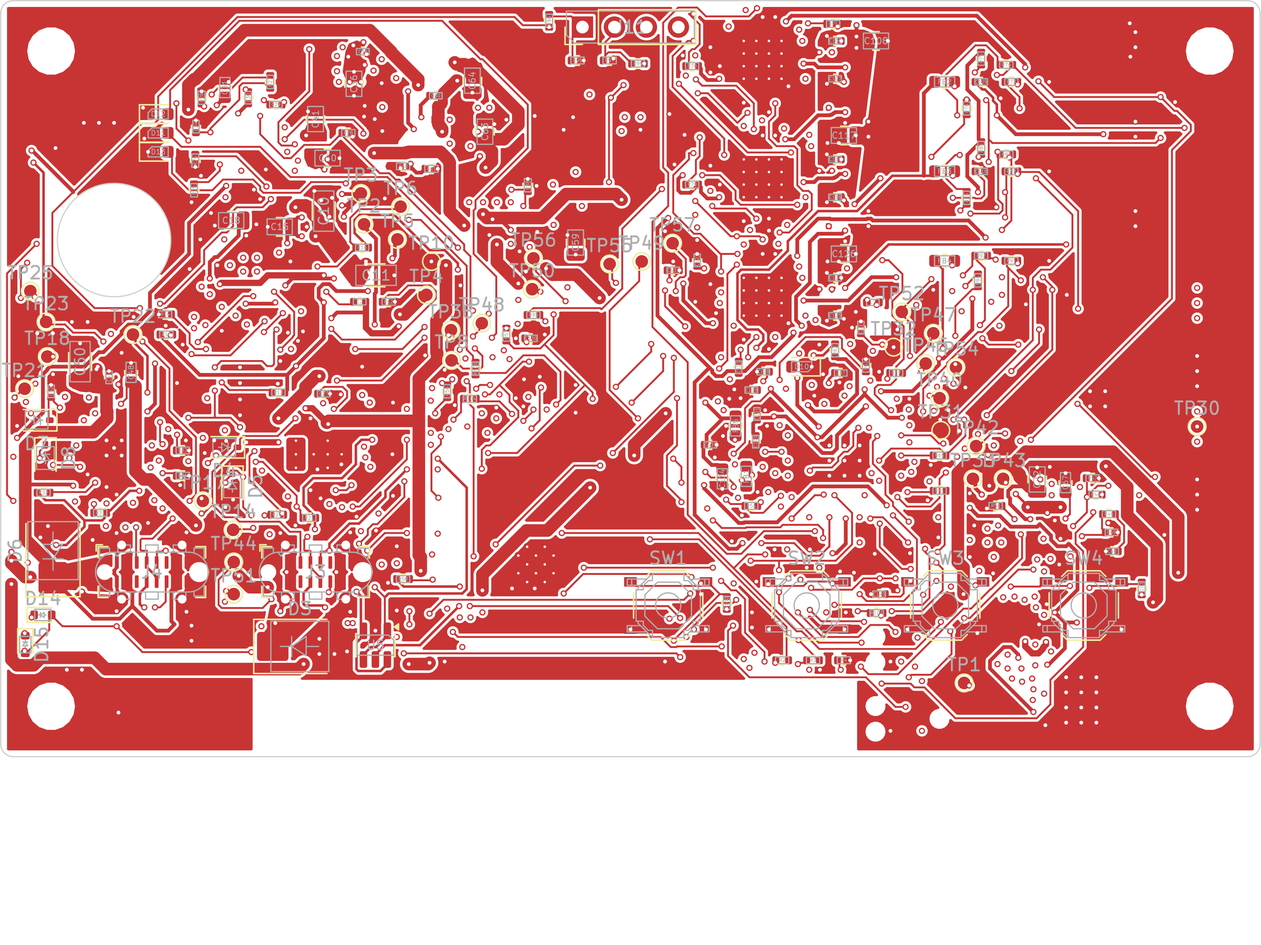
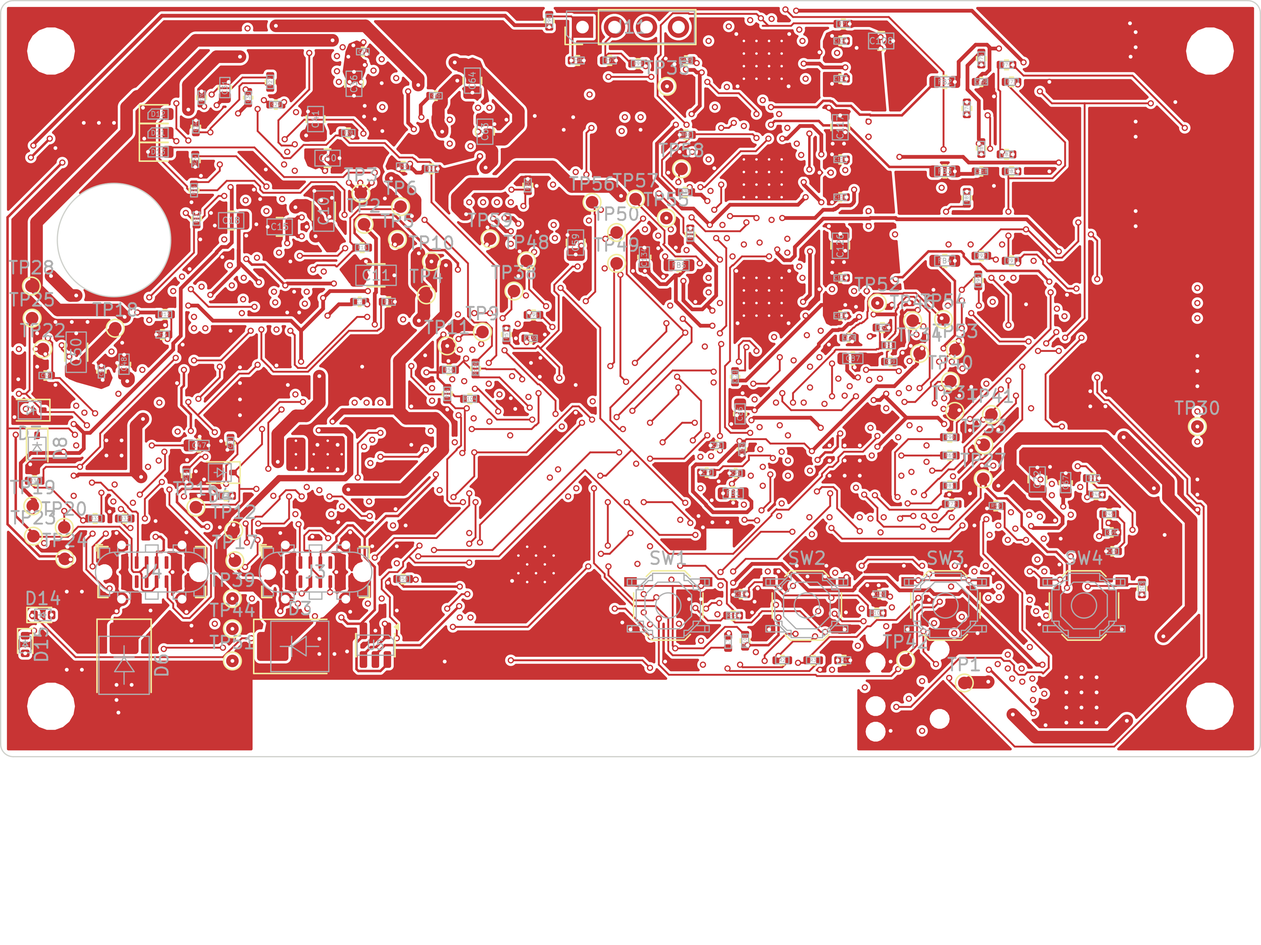
Phase 4: documents, progress file and workflow brought to the state of 23 November, 14:30 UTC
docs/04-electronics.md: battery board section written (circuit, checks, what is not confirmed), mainboard section
says plainly that 2 connections are open and that 11 of 17 power paths are too thin, with the plan to rebuild the
power section as drawn copper areas. Decisions log: Q38 to Q41 added as pending. Workflow: battery board and the
power-path width check added (not run on GitHub yet).

Claude-Session: https://claude.ai/code/session_011Eu8XGfbMCPRUGrwCaUfZN

Changed region(s): [[0.0, 0.0, 0.9651, 0.8052], [0.9962, 0.0, 1.0, 0.8052], [0.0623, 0.0619, 0.0934, 0.0929]]

diff --git a/hardware/electronics/tools/pathwidth.py b/hardware/electronics/tools/pathwidth.py
@@ -5,8 +5,8 @@ A connection can pass the design-rule check and still be a hair-thin track; this
 of the laid-out board as JSON (tools/dumpcu.py, run with KiCad's Python) and the list of terminals in the board's
 design.py (POWER_PATHS: net -> (list of "REF.pin", width wanted in mm)).
 
-usage:  python3 dumpcu.py <board>.kicad_pcb out/<name>.copper.json NET ...      (inside KiCad's Python)
-        python3 pathwidth.py <board-folder>                                      (numpy, scipy, matplotlib)
+usage:  python3 dumpcu.py <board-folder>        (with KiCad's Python: writes <board>/out/<name>.copper.json)
+        python3 pathwidth.py <board-folder>     (numpy, scipy, matplotlib)
 Writes <board>/out/<name>-pathwidth.json and prints one line per net.
 """
 import importlib.util
@@ -21,6 +21,7 @@ from scipy import ndimage
 
 G = 0.025                                  # raster pitch, mm
 STEPS = [1.0, 0.8, 0.6, 0.5, 0.4, 0.35, 0.3, 0.25, 0.2, 0.15, 0.1]      # widths tried, widest first
+NECK = 0.8                                 # mm of narrower copper accepted at a pin that is itself narrower
 
 
 def raster(net, layers):
@@ -119,7 +120,9 @@ def joined(net, grids, geo, box, terms, width, use_vias=True):
             if p["ref"] == ref and p["num"] == num:
                 for l in p["layers"]:
                     if l in labels:
-                        e = n * G + 0.03                   # a narrow pin is reached when the wide copper comes up to it
+                        # a pin narrower than the width asked for is reached when the wide copper comes to within
+                        # NECK of it: the short neck at a fine-pitch pin is the pin's own width and cannot be wider
+                        e = n * G + 0.03 + (NECK if min(p["r"][2] - p["r"][0], p["r"][3] - p["r"][1]) < width else 0.0)
                         i0, i1, j0, j1 = box(l, (p["r"][0] - e, p["r"][1] - e, p["r"][2] + e, p["r"][3] + e))
                         got |= {find(a) for a in set(np.unique(labels[l][j0:j1 + 1, i0:i1 + 1])) - {0}}
         if not got:
@@ -159,4 +162,4 @@ def main(folder):
 
 
 if __name__ == "__main__":
-    main(os.path.abspath(sys.argv[1]))
+    sys.exit(0 if all(r["ok"] for r in main(os.path.abspath(sys.argv[1]))) else 1)

diff --git a/hardware/electronics/tools/dumpcu.py b/hardware/electronics/tools/dumpcu.py
@@ -1,8 +1,22 @@
-"""Dump the copper of chosen nets of a board (zone fills, tracks, vias, pads) per layer as JSON. Run inside KiCad's Python.
-usage: python3 dumpcu.py <board.kicad_pcb> <out.json> NET [NET ...]"""
-import json, sys, pcbnew
-b = pcbnew.LoadBoard(sys.argv[1])
-want = set(sys.argv[3:])
+"""Dump the copper of a board's power nets (zone fills, tracks, vias, pads) per layer as JSON, for tools/pathwidth.py.
+Run with KiCad's Python.   usage: python3 dumpcu.py <board-folder>
+The nets are the keys of POWER_PATHS in the board's design.py; the result is <board>/out/<name>.copper.json."""
+import importlib.util
+import json
+import os
+import sys
+
+import pcbnew
+
+folder = os.path.abspath(sys.argv[1])
+name = [f[:-10] for f in os.listdir(folder) if f.endswith(".kicad_pcb")][0]
+spec = importlib.util.spec_from_file_location("design", os.path.join(folder, "design.py"))
+mod = importlib.util.module_from_spec(spec)
+spec.loader.exec_module(mod)
+want = set(mod.POWER_PATHS)
+b = pcbnew.LoadBoard(os.path.join(folder, name + ".kicad_pcb"))
+
+
 def xy(p): return [round(p.x / 1e6 - 100, 4), round(100 - p.y / 1e6, 4)]
 def chain(c): return [xy(c.CPoint(i)) for i in range(c.PointCount())]
 out = {n: dict(zones=[], tracks=[], vias=[], pads=[]) for n in want}
@@ -30,5 +44,6 @@ for fp in b.GetFootprints():
         layers = [l for l in ("F", "In1", "In2", "In3", "In4", "B") if p.IsOnLayer(b.GetLayerID(l + ".Cu"))]
         out[n]["pads"].append(dict(ref=fp.GetReference(), num=p.GetNumber(), layers=layers, r=[min(a[0], c[0]), min(a[1], c[1]), max(a[0], c[0]), max(a[1], c[1])],
                                    drill=pcbnew.ToMM(p.GetDrillSize().x)))
-json.dump(out, open(sys.argv[2], "w"))
-print("dumped", {n: (len(v["zones"]), len(v["tracks"]), len(v["vias"]), len(v["pads"])) for n, v in out.items()})
+os.makedirs(os.path.join(folder, "out"), exist_ok=True)
+json.dump(out, open(os.path.join(folder, "out", name + ".copper.json"), "w"))
+print(name, "copper of", len(out), "power nets written")

diff --git a/docs/04-electronics.md b/docs/04-electronics.md
@@ -11,18 +11,18 @@ This document covers the electronics of the head: the calculations behind every 
 | Calculations | Done | `docs/calc/phase4_calcs.py`, `phase4_calcs.md` |
 | ST-520 cartridge board: schematic, layout, fab files | Done. ERC and DRC clean, fits the Phase 3 carrier | `hardware/electronics/cartridge-board/`, `fab/st-520/` |
 | ST-501 mainboard: schematic | Done. 391 parts, 229 nets, ERC clean, netlist cross-checked | `hardware/electronics/mainboard/` |
-| ST-501 mainboard: layout | **Not finished, close.** Now a six-layer board with filled and capped vias (D51). KiCad's check on 23 November: 18 of about 950 connections open in 17 nets, no clearance errors, no shorts. The 18 are listed for finishing by hand (section 5.2). No fabrication files until they are closed | section 5.2 |
-| ST-602 battery board | **Not started** beyond the circuit definition. Both missing inputs are now read: the LED wiring and the fuse's pad drawing and terminal numbers; the fuse is the 2-cell ITV4030L0815 (section 5.3) | section 5.3 |
-| Fit check | Done for ST-520. **To be rerun for ST-501**: its parts moved in this revision | section 6 |
+| ST-501 mainboard: layout | **Not finished.** Six layers, filled and capped vias (D51). KiCad's check on 23 November, evening: 2 of about 950 connections open (both at the port B controller), no clearance errors, no shorts. **A new check of the copper width on the power paths fails on 11 of 17 paths** (0.10–0.50 mm found where 0.5–1.0 mm is wanted): the power stages have to be laid out again as wide copper before the board can be ordered. No fabrication files | section 5.2 |
+| ST-602 battery board | **Designed and routed; checks clean; fabrication files made.** 62 parts, 48 of them fitted by JLCPCB. ERC and DRC clean (no errors, no warnings), every pack-current path at least 1.0 mm wide. Still open: the fuse has no LCSC number and is bought separately; three pack parts need small changes that wait for approval (Q38–Q40); the parts list lines ST-602 to ST-604 are not updated | section 5.3, `hardware/electronics/battery-board/`, `fab/st-602/` |
+| Fit check | Done for ST-520 and ST-602. ST-602 clears the cell holder by 0.6 mm and the shells by 2.6 mm; its LEDs and button overlap the inner end of the light pipe ST-611 by 4.3 mm³ (Q39). **To be rerun for ST-501** when its layout is final | section 6 |
 | Wiring harnesses | Done: 6 drawings, pin tables, purchase list | `hardware/electronics/harness/` |
-| Per-board BOMs | Done for ST-520 and ST-501 (93 lines, 321 parts) | each board folder |
-| Master parts list, cost model | CSV and `bom_data.py` updated and cost model rerun; **the Sheet is not updated yet** | section 9 |
+| Per-board BOMs | Done for ST-520, ST-501 (93 lines, 321 parts) and ST-602 (19 lines, 48 parts) | each board folder |
+| Master parts list, cost model | CSV and `bom_data.py` carry the Phase 4 state of 22 November; **the lines ST-602 to ST-604 (battery board, with the corrected fuse) and the Sheet are not updated yet** | section 9 |
 | Firmware hand-off, bring-up plan | Done | sections 10 and 11 |
-| Board viewer | Done for ST-520; **ST-501 still shows the old placement** | artifact + `hardware/electronics/doc/board-viewer.html` |
-| GitHub Actions workflow | Changed for the new router (no autorouting on GitHub; the committed routes are laid on the board); started by hand only; not yet run on GitHub (it needs pull request 7 merged first) | `.github/workflows/phase4-electronics.yml` |
+| Board viewer | Done for ST-520; **ST-501 still shows the old placement and ST-602 is not in it** | artifact + `hardware/electronics/doc/board-viewer.html` |
+| GitHub Actions workflow | Now also builds the battery board and runs the power-path width check (the run fails while the mainboard's paths are thin); started by hand only; **not yet run on GitHub** (it needs pull request 7 merged first) | `.github/workflows/phase4-electronics.yml` |
 | Phase 5 prompt | Held back until the mainboard is routed and the battery board exists | — |
 
-**What you can do today:** answer the six open questions (Q28, Q31–Q35), and order the cartridge board (ST-520) if you want boards in hand early — its encoder chip was out of stock on the check date. **What is not ready:** the mainboard cannot be ordered yet (18 connections are still open), the battery board is not designed, and the Sheet, the Docs version of this document, the board viewer and the mainboard fit check still show an earlier state. Phase 4 is therefore not complete, and the Phase 5 prompt is held back. `hardware/electronics/PROGRESS.md` says exactly where to pick up.
+**What you can do today:** answer the six open questions (Q28, Q31–Q35), and order the cartridge board (ST-520) if you want boards in hand early — its encoder chip was out of stock on the check date. **What is not ready:** the mainboard cannot be ordered: 2 connections are still open and, more important, most of its power connections are far too thin (section 5.2). The battery board is finished as a board but waits for three small changes to pack parts (Q38–Q40). The Sheet, the Docs version of this document, the board viewer and the mainboard fit check still show an earlier state. Phase 4 is therefore not complete, and the Phase 5 prompt is held back. `hardware/electronics/PROGRESS.md` says exactly where to pick up.
 
 Board viewer (interactive BOM, Day / Night): <https://claude.ai/artifact/TntQCR18hPMWE3V6fTQ68L> · Docs version of this document: <https://claude.ai/artifact/9Y2pyZBkJu5i3eWqNy6xAx> · Parts list Sheet: <https://claude.ai/artifact/9T9Gpvm2vWPRYqJtPChJa8> · KiCad projects: `hardware/electronics/`.
 
@@ -181,36 +181,72 @@ A closing pass (`tools/closer.py`), which takes everything on the board as fixed
 - **A fault that caused every earlier clearance error was found**: where a track changed layer, its end on the new layer was not checked for room. Corrected; the board has had no clearance error since.
 - **Closing pass** (`tools/closer.py`): removes loose track pieces, joins what is apart on free cells, and then lets a connection take up to eight slow signals up if all of them close again.
 
-*Where it stands (KiCad DRC, all severities, 23 November).* 5,640 track segments (1,902 front, 3,057 inner face, 392 and 289 on the two inner signal layers) and 1,177 vias. **Open: 18 connections in 17 nets, out of about 950. Errors: none.** Warnings: four pairs of vias of the same net 0.4995 mm apart hole to hole (allowed for one net), two narrow copper necks in pours, the silkscreen overlaps of the status LEDs.
+*Later on 23 November (fifth chat).* Bruno does not use KiCad, so the remaining connections are closed by router work and by guided fixes in the routes file, not by hand in KiCad. What was found and changed:
 
-| Net | Open | Net | Open | Net | Open |
-|---|---|---|---|---|---|
-| `+3V3` (plug J5) | 1 | `NTC_ALT_A` | 2 | `PDB_SDAC` | 1 |
-| `ALT_VREF` | 1 | `PDA_ADC2` | 1 | `STEP_ALT` | 1 |
-| `A_CC2` | 1 | `PDA_LDO3V3` | 1 | `STEP_ROLL` | 1 |
-| `B_DP` | 1 | `PDA_SDAC` | 1 | `VMOT_MON` | 1 |
-| `CHG_TS` | 1 | `PDB_LD1` | 1 | `VPB` | 1 |
-| `LED_RP_A` | 1 | `LINK_SYNC` | 1 | | |
+- **The battery rail on inner layer 3 was cut in two** by a row of other nets' vias under the RP2354A; KiCad's check showed it as one open connection. The router now keeps the middle 2.4 mm of the rail free of other nets' vias (`spine` in `route_plan()`), which leaves at least 1.5 mm of unbroken copper along its whole length. After the new run the rail is one piece again.
+- **Two driver pins had no way out** (STEP of the altitude and roll drivers): the escape tracks of the driver above ran on into the pins of the driver below. A chip's escape ring now ends half-way to a facing chip; all 110 pins get out.
+- **The ground pin of the RP2354A's regulator** (pin 47, at the end of its row) now reaches the centre pad by a 45° leg; small parts were moved a little to widen the free bands round the processor, the PD controllers and the drivers; slow-signal resistors and capacitors get a via in their pad before the critical nets are routed.
+- **Boost converter:** the switch pins were not joined to the coil at all. They are now joined directly (0.35 mm at the pin, 1.0 mm from there, with the filled area round it).
+- Guided fixes closed the azimuth step line, a button's second ground pad, the antenna socket's ground pads, a 3.3 V test point and the charger's status pin. Two vias drilled almost on top of each other were removed.
 
-Every one of them is listed with both ends and their positions in [`hardware/electronics/mainboard/doc/st-501-open-connections.md`](../hardware/electronics/mainboard/doc/st-501-open-connections.md) (also as CSV), with click-by-click steps for KiCad. The router leaves these because each would have to cross five to fifteen finished signals near the RP2354A or a PD controller; by hand, with the freedom to move a neighbouring track aside, they are ordinary connections.
+*Where it stands (KiCad DRC, all severities, 23 November, evening).* **Open: 2 connections in 2 nets, out of about 950: `B_DP` and `B_CC2`, both at the port B controller U6. Errors: none.** Warnings: two narrow copper necks in the system-rail area on the power layer, nine vias and two track ends that KiCad calls loose, the silkscreen overlaps of the status LEDs. The two open connections sit in a 1.1 mm gap between U6 and the switch transistor Q2 where three signals need a via and only two fit; Q2 has to move about 1 mm, which is part of the work below. The list with both ends is in [`hardware/electronics/mainboard/doc/st-501-open-connections.md`](../hardware/electronics/mainboard/doc/st-501-open-connections.md).
 
-*What is left on this board.* Close the 18 connections (by hand in KiCad, or by more work on the router), look at the 3D render, then the fabrication files, the fit check and the viewer. When ordering, **Via Covering** must be set to *Epoxy Filled & Capped* (free on six layers), because vias sit in pads. The USB pairs are full-speed only (12 Mbit/s) and are routed as two tracks side by side, not as an impedance-controlled pair. The GNSS feed is 0.2 mm wide on the inner face over the ground plane, a few millimetres long; its width should be set from JLCPCB's impedance calculator for the six-layer stack before release.
+**The larger problem: the power connections are too thin.** A connection can pass KiCad's check and still be a hair-thin track. A new check (`tools/pathwidth.py`) measures, for every power net, the narrowest place on the widest way between the pins that carry the current, over tracks and filled areas together, allowing a neck of 0.8 mm at a fine-pitch pin. Result for the mainboard:
+
+| Net | What it carries | Wanted, mm | Found, mm |
+|---|---|---|---|
+| `CHG_SW1`, `CHG_SW2` | charger coil current, up to 5 A | 1.0 | **0.10**, **0.25** |
+| `CHG_PMID` | charger input capacitors | 1.0 | 0.80 |
+| `VBUS_CHG` | port A to the charger, 3 A | 1.0 | **0.25** |
+| `VBUS_A`, `VBUS_B` | the two USB-C sockets, 3 A | 1.0 | **0.25**, **0.25** |
+| `PB_SW2` | port B converter coil | 1.0 | **0.35** |
+| `VPB_RAW`, `VPB` | port B converter output, 3 A | 1.0 | 0.50, **0.25** |
+| `VM_IN` | boost converter input, up to 6 A | 1.0 | **0.25** |
+| `+5V` | 5 V rail to the PD controllers | 0.5 | 0.25 |
+| `SW_3V3` | 3.3 V converter coil | 0.5 | 0.30 |
+| `VBAT_IN`, `PB_SW1`, `PB_MID`, `BST_SW`, `SW_5V` | | 0.35–1.0 | as wanted |
+
+The cause is in the method, not in single tracks. The router lays one track per connection and falls back to a thinner one, down to 0.15 mm, when a wide one does not fit; the copper areas round each group of pads, which were meant to carry the current, are cut into pieces by other tracks. Some parts also stand too far from their chip: the port B current-sense resistor R23 is 35 mm from the converter U7, the far end of the charger coil 9 mm from its pin.
+
+*What is left on this board.* The battery board (section 5.3) was built the other way round, and that worked at the first attempt: the power parts are placed by hand, each power net is a drawn copper area that no other net may enter, and only the signals are left to the router. The mainboard's five power stages (charger, port B converter and switch, boost converter, 5 V and 3.3 V converters, the two USB-C supply paths) get the same treatment: about 25 drawn areas and 30 hand-placed parts, then one router run for the signals, the closing pass, and both checks. After that: 3D render, fabrication files, fit check, viewer. When ordering, **Via Covering** must be set to *Epoxy Filled & Capped* (free on six layers), because vias sit in pads. The USB pairs are full-speed only (12 Mbit/s) and are routed as two tracks side by side, not as an impedance-controlled pair. The GNSS feed is 0.2 mm wide on the inner face over the ground plane, a few millimetres long; its width should be set from JLCPCB's impedance calculator for the six-layer stack before release. The battery rail lies on an inner layer, which is half as thick as the outer ones at JLCPCB's standard build: ordering 1 oz inner copper is asked as Q41.
 
 ![ST-501 layout in progress, inner face](img/04-st-501-layout-inner.png)
 ![ST-501 layout in progress, front face](img/04-st-501-layout-front.png)
 
 ### 5.3 ST-602 battery board
 
-**Not designed yet; planned for the second board order.** It is not needed for the P0 bench round, which runs from a bench supply.
+**Designed, routed and checked on 23 November. Fabrication files are in `hardware/electronics/fab/st-602/`.** It is not needed for the P0 bench round, which runs from a bench supply, and goes into the second board order. Before it is ordered, three pack parts need the small changes of Q38–Q40 below, and the values should be read once more against the data sheets (the list of what was read is under "checked against").
 
-Circuit as defined: BQ40Z50-R2 gauge and protector for 2 cells in series (2S2P pack), 1 mΩ sense resistor, charge and discharge N-FETs back to back, BQ294700 second-level over-voltage protector driving a three-terminal fuse, SMBus through 100 Ω and an ESD array to the blade connector, pads for B+, mid-point, B−, PACK+ and PACK−, charge-state LEDs behind the pack's light pipe with its button. Outline 32 × 40 mm, two layers.
+![ST-602, outer face](img/04-st-602-top.png)
+![ST-602 copper, outer face](img/04-st-602-layout-front.png)
 
-The two inputs that were missing:
+**The board.** 32 × 40 mm, two layers, 1.6 mm. Every part is on the outer face; the inner face is a ground plane and lies 0.6 mm from the cell holder and the nickel strips (put a sheet of polyimide tape between them). Seen from outside the pack: the cell pair on the left ends in B+ at the board, the pair on the right in B−; the middle of the pack comes from the far end on a thin wire.
 
-1. **LED wiring — found.** The three LED pins drive up to five LEDs wired between pairs of pins (charlieplexed), as on TI's evaluation module: LED 1 anode LEDCNTLA, cathode LEDCNTLB; LED 2 anode B, cathode A; LED 3 anode B, cathode C; LED 4 anode C, cathode B; LED 5 anode C, cathode A. A TI engineer confirmed this wiring on TI's E2E forum; the gauge can be set for 3, 4 or 5 LEDs, and the charge level at which each one lights is a setting in the gauge (TI's technical reference SLUUBK0), not fixed by the wiring. Still to read from the reference manual before the schematic is drawn: which three of the five positions a 3-LED display uses.
-2. **Fuse — read from the datasheet drawing on 22 November.** The part is the 2-cell **ITV4030L0815** (15 A, heater working range 5.0–9.0 V, heater 2.2–3.3 Ω, fuse 1.0–3.0 mΩ, cuts up to 50 A at 36 V), not the 4-cell ITV4030L1415 listed before, whose heater needs 10.5–19.6 V and would not blow on this pack. Terminals 1 and 3 are the two ends of the fuse (the pack current goes through them); terminal 2 is the heater, joined inside to the middle of the fuse. Body 4.0 × 3.0 × 0.9 mm: terminal 2 on one short edge, terminals 3 and 1 on the two long edges. Recommended pads: one pad 1.20 × 1.60 mm for terminal 2, two pads 2.40 × 1.55 mm for terminals 3 and 1, 0.90 mm apart, their edge 0.35 mm from the first pad; 3.95 × 4.00 mm overall. As a footprint with the origin at the body centre: pad 2 at (−1.97, 0), pad 3 at (0.18, +1.225), pad 1 at (0.18, −1.225). Its LCSC number still has to be confirmed in JLCPCB's library before it goes in a parts list.
+| | |
+|---|---|
+| High side | B+ tab → three-terminal fuse F1 (ITV4030L0815) → charge FET Q1 → discharge FET Q2 → PACK+ lead. Both FETs AON7400A, driven by the gauge through 5.1 kΩ with 10 MΩ gate-to-source |
+| Low side | B− tab → sense resistor R1, 1 mΩ → PACK− lead. The two sense lines start on the inner edges of R1's pads through net ties, as nets of their own, and run side by side to their filter (100 Ω, 100 nF) |
+| Gauge U1 | BQ40Z50-R2 for two cells: VC2 is the top of the stack, VC3 and VC4 tied to it. Supply through a BAT54 diode and 100 Ω; 2.2 µF on PBI. No pre-charge FET (the charger BQ25792 does the pre-charge). PTC input off. One 10 kΩ thermistor bead (Semitec 103AT type, which the gauge's default table fits) taped to the cells, on two solder pads |
+| Second protector U2 | BQ294700: 4.35 V on either cell for 1–2 s (100 nF on CD) |
+| Fuse drive | Q3 (AON7400A) pulls the fuse's heater to B−. Its gate is driven by U2 through 10 kΩ or by the gauge's FUSE pin directly, with 100 kΩ to B−: at least 4.2 V on the gate in both cases down to a 6 V pack. Heater 2.2–3.3 Ω: 1.8–3.8 A |
+| Bus | SMBC, SMBD and PRES through 100 Ω each and an SRV05-4 array to three wire pads; the head pulls PRES to ground through 1 kΩ |
+| Display | Button SW1 (to DISP) and four green LEDs behind the light pipe ST-611, 13 mm above the board centre: LED 1 (lowest) at the left. The LEDs are wired between pairs of the three LED pins as on TI's evaluation module; 100 Ω in each pin line keeps the current between 4 mA (6 V pack) and 16 mA (8.4 V) |
+| Solder pads | B+ and B− 5.0 × 5.5 mm for the nickel tabs (folded round the bottom edge); PACK+ and PACK− 3.2 × 4.0 mm for 18 AWG leads; four pads 1.6 × 2.6 mm for the middle tap and the three bus wires; two for the thermistor |
+| Test points | fuse gate, ground, FET mid-point |
 
-The screw-free fixing of the board at the pack end is designed together with the board and is still open.
+**Checks.** ERC: no errors. KiCad DRC, all severities: no errors, no warnings, nothing unconnected. Power paths (`tools/pathwidth.py`): B+, fuse to FET, FET to FET, PACK+, B−, PACK− all at least 1.0 mm wide (drawn copper areas 1.6–3.6 mm), heater path 1.0 mm. Fit in the pack (`stcad.fit_boards`): 0.6 mm to the cell holder, 2.6 mm to the shells; **the LEDs and the button overlap the inner end of the light pipe by 4.3 mm³**, because the Phase 3 pipe reaches the board face.
+
+**Parts.** 19 lines, 48 parts fitted by JLCPCB, all with confirmed LCSC numbers except the fuse: the 2-cell ITV4030L0815 is not in LCSC's catalogue (only the 4-cell L1415 is). It is bought from DigiKey or Mouser (`ITV4030L0815NR`) and either sent to JLCPCB as a consigned part or soldered by hand with hot air; an iron on its pads can open it.
+
+**Checked against.** Pin table, two-cell wiring, gate-drive and FUSE-pin figures, LED pin currents: BQ40Z50-R2 data sheet SLUSCS4C. Reference values (100 Ω cell and sense resistors, 5.1 kΩ and 10 MΩ gate resistors, 10 kΩ on PACK, BAT54 and 100 Ω on BAT, 2.2 µF on PBI, 1 mΩ sense resistor): the same data sheet and the bill of materials of TI's evaluation module SLUUAV7C. BQ294700 pins, threshold, delay and input values: data sheet SLUSB15. Fuse pads and terminals: Littelfuse drawing, as read on 22 November. **Not confirmed:** which LED positions the gauge lights when set to four LEDs (the reference manual SLUUBK0 could not be read; the wiring follows TI's module, positions 1 to 4); TI's own values for the fuse-drive resistors (the module's schematic is a picture; the values here are calculated from the data-sheet figures); the gate of Q4 is tied to B− as in TI's "simple" circuit, which protects only below about −2 V at PACK+ (the keyed blade connector prevents a reversed charger anyway).
+
+**Three pack parts would have to change (asked as Q38–Q40; nothing is changed yet):**
+
+1. *Fixing without screws.* The board's bottom and top edges are free of parts over the middle 7 mm, for a grooved rib on the floor of the lower shell ST-605 and one under the roof of the upper shell ST-612.
+2. *Light pipe ST-611.* It must end 2 mm before the board and needs a way to press the button.
+3. *Cell holder ST-606.* The pack leads and the thin wires have to pass the two holders to reach the blade connector at the other end; the holders are solid plates in Phase 3.
+
+**Setting up the gauge** (TI bqStudio with an EV2400 adapter, on the blade connector): two cells in series; design capacity 10,000 mAh; chemistry for the Molicel P50B; four LEDs; charge and discharge over-current limits in the gauge's firmware settings at the pack's 6 A plus a margin (suggested: 6 A and 8 A; the fast hardware short-circuit limit is 0.1 V across the sense resistor, 100 A with 1 mΩ, so the firmware limits and the fuse do this job); pre-charge through the charge FET. A 1- or 2-cell pack must first be woken by a charger on PACK+, as the data sheet says.
 
 ## 6. Fit check
 
@@ -221,11 +257,14 @@ The boards are exported from KiCad as STEP models with their components and load
 | ST-520 Encoder board (azimuth) | none | ST-212 Cartridge cover (azimuth) 0.09 mm; ST-208 Encoder tube (azimuth) 0.82 mm; ST-209 Encoder magnet (azimuth) 0.82 mm | 0.82 |
 | ST-520 Encoder board (altitude) | none | ST-212 Cartridge cover (altitude) 0.09 mm; ST-208 Encoder tube (altitude) 0.81 mm; ST-209 Encoder magnet (altitude) 0.81 mm | 0.81 |
 | ST-520 Encoder board (roll) | none | ST-216 Cartridge cover (roll) 0.09 mm; ST-215 Encoder tube (roll) 0.82 mm; ST-209 Encoder magnet (roll) 0.82 mm | 0.82 |
-| ST-501 Mainboard | ST-310 Azimuth body (0.21 mm³); ST-315 Front bezel (4.04 mm³) | ST-326 OLED window 38 x 22 x 1 PC 0.58 mm; ST-316 Button cap 4 3.5 mm; ST-316 Button cap 1 3.66 mm | — |
+| ST-501 | — | not exported yet | — |
+| ST-602 Battery board | ST-611 Pack light pipe (4.26 mm³) | ST-606 Cell holder +Y 0.6 mm; ST-605 Pack shell lower 2.58 mm; ST-610 Pack gasket 2.58 mm | — |
 
 Reading the table: the cartridge boards rest on their carriers (0.09 mm is the copper thickness missing from the bare-board model) and nothing else is nearer than the magnet. **The chip-to-magnet gap is 0.81–0.82 mm, under the MT6835's 1.0 mm minimum. By decision D48 it stays as it is and is measured on the P0 bench.**
 
 Mainboard (placement model): the only overlap is the display's 4-pin header, drawn in the 3D model as a full-length stock header 10.1 mm tall; the bezel's inner face is 6 mm from the board. On the real board the display module is soldered by its own pins, trimmed to length, so this is a model artefact — but it also shows the display must sit low: check the module's height against the 0.58 mm left under the window when the first display arrives. The button caps end 3.5–3.7 mm from the board face and the chosen switch is 1.5 mm tall, which is the 2 mm of Q31. No overlap is reported at the USB-C sockets (they stand about 1.5 mm proud of the bezel's outer face, D49) or at the buttons; whether every part carries a 3D model in the export has not been checked one by one, so this check is repeated when the layout is final. The GNSS antenna is no longer on the board (Q32), so the GNSS window check moves to the antenna's position under the top cover in the CAD, still to be drawn.
+
+Battery board ST-602: 0.6 mm from the cell holder behind it (as designed in Phase 3) and 2.6 mm from the shells. The one overlap is with the light pipe ST-611, which in the Phase 3 model reaches the board face: the LEDs and the button stand 0.8–1.5 mm proud of it (Q39).
 
 ## 7. Wiring harnesses
 
@@ -539,3 +578,5 @@ Fit the boards and harnesses following the Phase 3 assembly sequence, then repea
 - Freerouting 2.1.0 <https://github.com/freerouting/freerouting>; KiCad 9.0.8 <https://www.kicad.org/>
 - BQ40Z50 LED wiring as on TI's evaluation module, confirmed by TI on the E2E forum: <https://e2e.ti.com/support/power-management-group/power-management/f/power-management-forum/807905/bq40z50-rsoc-led-configuration>; evaluation-module guide SLUUAV7 <https://www.ti.com/lit/pdf/sluuav7>
 - Littelfuse ITV4030 product specification (body dimensions) <https://www.littelfuse.com/products/fuses-overcurrent-protection/battery-protector/itv-three-terminal-fuses/itv4030-15a>
+- BQ40Z50EVM-561 user's guide SLUUAV7C, bill of materials (read 23 November 2026): <https://www.ti.com/lit/pdf/SLUUAV7>
+- LCSC and JLCPCB product pages read on 23 November 2026 for the battery board: BQ294700DSGR C414622, BAT54WS C2991936, 10 MΩ 0402 C26086, 1 mΩ 1206 C2904209

diff --git a/hardware/electronics/PROGRESS.md b/hardware/electronics/PROGRESS.md
@@ -1,22 +1,74 @@
 # Phase 4 (electronics) — progress
 
-Last update: 23 Nov 2026, 01:30 UTC (third Phase 4 chat; this one can push). Branch `phase-4-electronics`, pull request #6 (draft). Phase 4 is **not complete**.
-The second Phase 4 chat could not push (the repo attached read-only); Bruno uploaded its files to the branch by hand on GitHub.
+Last update: 23 Nov 2026, 14:30 UTC (fifth Phase 4 chat). Branch `phase-4-electronics`, pull request #6 (draft). Phase 4 is **not complete**.
+Bruno does not use KiCad: nothing is left for him to finish by hand in it. Everything is done from `design.py`, the router and the routes files.
 
 ## Done
-- Calculations: `docs/calc/phase4_calcs.py` (+ `.md`, `.json`). D42–D49 approved and in the decisions log.
+- Calculations: `docs/calc/phase4_calcs.py` (+ `.md`, `.json`). D42–D51 approved and in the decisions log.
 - ST-520 cartridge board: schematic, layout, fab package (`fab/st-520/`), ERC and DRC clean, fits its carrier. Order-ready.
 - ST-501 mainboard schematic: 7 sheets, 391 parts, 229 nets, ERC clean, netlist cross-checked. BOM in `mainboard/st-501-bom.csv`.
-- Harness drawings, cost model, parts list CSV and `bom_data.py`, firmware hand-off, bring-up plan, workflow file.
+- **ST-602 battery board** (`battery-board/`, new on 23 Nov): schematic, layout, routes, fab package (`fab/st-602/`). ERC clean, DRC clean
+  (no errors, no warnings), power paths ≥ 1.0 mm, fit check done. Open points: see "ST-602" below.
+- Harness drawings, cost model, parts list CSV and `bom_data.py` (state of 22 Nov), firmware hand-off, bring-up plan, workflow file.
 - LCSC numbers in `tools/catalog.py` are all confirmed; blank means not confirmed. Never fill one in from memory.
 
-## ST-501 layout: where it stands (KiCad DRC, 23 Nov 01:30 UTC, `mainboard/out/st-501-drc.json`)
-- **Six layers now (D51), via-in-pad, battery rail on In3 (D50).** Stack: F sig / In1 power / In2 sig / In3 sig + VBAT bus / In4 GND / B sig.
-- 5,640 track segments, 1,177 vias. **18 connections open in 17 nets** (of about 950): +3V3 (J5.1), ALT_VREF, A_CC2, B_DP, CHG_TS,
-  LED_RP_A, LINK_SYNC, NTC_ALT_A ×2, PDA_ADC2, PDA_LDO3V3, PDA_SDAC, PDB_LD1, PDB_SDAC, STEP_ALT, STEP_ROLL, VMOT_MON, VPB.
-- **Errors: none.** Warnings: 4 same-net via pairs 0.4995 hole to hole, 2 connection_width in pours, silk overlaps at D11–D13.
-- List with positions and KiCad steps: `mainboard/doc/st-501-open-connections.md` / `.csv` (`tools/openlist.py mainboard`).
-- No fab files. Fit check, viewer, 3D render not redone.
+## ST-501 layout: where it stands (KiCad DRC, 23 Nov 14:00 UTC, `mainboard/out/st-501-drc.json`)
+- Six layers (D51), via-in-pad, battery rail on In3 (D50). Stack: F sig / In1 power / In2 sig / In3 sig + VBAT bus / In4 GND / B sig.
+- Routes = router cycle "10b" + closer + guided fixes (`mainboard/st-501.routes.json`, laid on `st-501.kicad_pcb`).
+  **2 connections open: `B_DP` (U6.22) and `B_CC2` (D8.1). Errors: none.** Warnings: 2 connection_width (VSYS area on In1), 9 via_dangling,
+  2 track_dangling, silk overlaps at D11–D13. List: `mainboard/doc/st-501-open-connections.md`.
+- **Power paths fail** (`python3 tools/pathwidth.py mainboard` after `kc "python3 tools/dumpcu.py mainboard"`): CHG_SW1 0.10, CHG_SW2 0.25,
+  CHG_PMID 0.80, VBUS_CHG 0.25, VBUS_A 0.25, PB_SW2 0.35, VPB_RAW 0.50, VPB 0.25, VBUS_B 0.25, VM_IN 0.25 (all wanted 1.0); +5V 0.25,
+  SW_3V3 0.30 (wanted 0.5). OK: VBAT_IN, PB_SW1, PB_MID, BST_SW, SW_5V. **This, not the 2 open connections, is what keeps the board from being ordered.**
+- No fab files. Fit check, viewer, 3D render not redone. `costs.py` still prices the bare mainboard as four layers.
+
+### What has to be done on ST-501 (the plan; nothing of it is started)
+Build the power section the way ST-602 was built (it worked at the first attempt there):
+1. In `mainboard/design.py` put the power parts in `FIXED` by hand, stage by stage, as in the reference layouts: charger U2 with L1 (both
+   coil pads within 3 mm of SW1/SW2), C2/C3, PMID and VBUS capacitors; port B converter U7 with Q4/Q5, L2, **R23 next to U7** (it is 35 mm away
+   now), C39–C43; port B switch Q2/Q3 **at least 2.2 mm from U6's pin row** (1.1 mm now: three signals need a via there and two fit, which is why
+   B_DP stays open); boost U12 with L5, C66 turned so its SW pad faces pin 9, C71/C72; U10/L3 and U11/L4; the VBUS paths J3–U3–U2 and Q3–J4.
+2. Add a table `AREAS` as in `battery-board/design.py` (net, face, outline, centre line, half width) for every net of `POWER_PATHS`, pass
+   them to the router as hard regions with a spine (no other net's track or via inside), make them zones in `finish()` and block them for the
+   autoplacer. Take those nets out of the "switch nodes and power stages" route step or leave only a thin tie track to the router.
+3. Parts on the other face inside an area's outline are fine; pads of other nets on the same face are not: keep the areas tight round their pads.
+4. One router run, closer, `layout.py`, then **both** checks: `check.py mainboard` and `pathwidth.py mainboard`. Then the remaining opens by
+   guided fixes (helpers of this chat: `/home/claude/work/fix.py`, `subsets.py`; they are not in the repo — the ideas are: take named slow
+   nets up, lay explicit pieces, close everything again, keep only if all close; and try subsets of up to three neighbouring slow nets).
+5. Then: 3D render, `fab.py mainboard`, `python -m stcad.fit_boards`, `viewer.py`.
+
+### Changes of the fifth chat (23 Nov), so nobody repeats or undoes them
+- `grouter.py`: region `spine` + `keep` (no foreign vias along the middle of an area: the VBAT bus was cut in two under U14 before);
+  escape ring ends half-way to a facing fine-pitch chip (U17.16 / U19.16 had no way out); end-of-row pins of the centre pad's net reach it
+  by a 45° leg; `escape(pad_vias=0.5)` reserves an in-pad via on slow-signal pads of R, C, D, J, TP, L, FB, Q; `plan["rules"]`
+  (clearance, via, drill) per board; via radius in the clearance model = max(pad, hole + clearance); hand-laid tracks and vias of
+  `design.py` (`pre["tracks"]`, `pre["vias"]`) count as connections (`net_groups_rect`).
+- `closer.py`: `laid()` (hand-laid copper in islands and prune), `one_more` with alternatives and depth, `plane_pads`, final `prune` + `tee`
+  (cuts a track where another ends on it, so KiCad sees a shared end point); prune keeps a via that joins two pads by itself (it removed
+  five such vias once and opened AZ_SCK, ALT_SCK, ROLL_SCK, SH_TIP, +3V3G: fixed). Env: `CLOSER_VICTIMS`, `CLOSER_DEPTH`, `CLOSER_ALTS`,
+  `CLOSER_ROUNDS`, `CLOSER_WHY`, `CLOSER_KEEP`.
+- `mainboard/design.py`: wider free bands (U3, U6 2.4; U14 3.2; U15, U17, U19 2.0), `VBAT_SPINE = 1.2`, `POWER_PATHS`. The block at
+  (−13.4, 7.0, −10.9, 9.7) is a leftover the placement depends on (comment in the file).
+- New tools: `tools/dumpcu.py <board>` (KiCad's Python) + `tools/pathwidth.py <board>` (numpy, scipy, matplotlib): power-path widths.
+- Outer-face ground pours break into islands; a pad in an island without a ground via is "connected" for the router but not for KiCad.
+  Found with a pcbnew script (islands of the GND zones without a via); fixed by tie tracks for SW1.2 and J10.2. Worth a step of its own.
+- KiCad does not count a via as joined to a chamfered pad when only their copper overlaps: add a short track to the pad centre (CHG_STAT at U2.1).
+
+## ST-602 battery board (23 Nov)
+- Built from `battery-board/design.py`: fixed places for all power parts and the gauge's own parts, `AREAS` (drawn copper for BP, BF, VCC,
+  PACKP, FUSE_H, GND, PACKN: hard regions with spines, zones), hand-laid pin tracks and the two sense lines (net ties NT1, NT2 on R1's pads;
+  SRP_K hops to B for 2 mm), the rest by `grouter.py` + `closer.py`. Rules: clearance 0.15, via 0.6/0.3.
+- Flow: `kc "python3 tools/layout.py battery-board --dump"` → `cd battery-board && python3 ../tools/grouter.py .` (5 s) →
+  `python3 tools/closer.py battery-board` → `kc "python3 tools/layout.py battery-board"` → `kc "python3 tools/fab.py battery-board"` →
+  `kc "python3 tools/dumpcu.py battery-board"` + `python3 tools/pathwidth.py battery-board`.
+- Confirmed part numbers added to `catalog.py`: BQ294700DSGR C414622, BAT54WS C2991936, 10 MΩ C26086, 1 mΩ 1206 C2904209. The fuse
+  ITV4030L0815NR has none (not at LCSC).
+- Not confirmed (said so in the document): LED positions lit in 4-LED mode (SLUUBK0 not read); TI's own fuse-drive resistor values.
+- Pack parts that would change (asked as Q38–Q40, not changed): grooved ribs in ST-605 / ST-612, light pipe ST-611 2 mm shorter with a
+  way to press the button, wire notches in the cell holders ST-606. `hardware/cad/stcad/fit_boards.py` has the ST-602 frame; the envelope
+  in `bought.py` still shows the LEDs at the board centre (they are 13 mm above it, at the light pipe).
+- Parts list: ST-602 / 603 / 604 lines in `hardware/bom/master-parts-list.csv`, `bom_data.py` and the Sheet are not updated
+  (the fuse line still names the 4-cell part); `costs.py` does not price ST-602 yet.
 
 ### Six-layer runs (23 Nov), in order
 1. Six layers, in-pad plane vias (`in_pad=True` on plane steps), escape after critical: 64 open.
@@ -84,30 +136,20 @@ Q36 → D50 (pack pads stay, rail on In3), Q37 → D51 (six layers, via-in-pad):
 Q28, Q31–Q35 are still pending (recommended options in use).
 
 ## Next, in this order
-1. **ST-501**: close the last 18 (Bruno by hand from the list, or router work), DRC clean, 3D render, `tools/fab.py mainboard`,
-   `python -m stcad.fit_boards` (hardware/cad), `tools/viewer.py`. If Bruno hand-finishes: take his saved `.kicad_pcb` as the board
-   (do not run `layout.py` over it), run `check.py`, then fab.
-2. **ST-602 battery board** (folder `battery-board/` does not exist yet). Inputs, all read now:
-   - LEDs: charlieplexed on LEDCNTLA/B/C as on TI's EVM: LED1 A→B, LED2 B→A, LED3 B→C, LED4 C→B, LED5 C→A (anode→cathode); 3, 4 or 5 LEDs by setting.
-     Still to read in SLUUBK0: which positions a 3-LED display uses.
-   - Fuse **ITV4030L0815** (2 cells, 15 A, VOP 5.0–9.0 V, heater 2.2–3.3 Ω, fuse 1.0–3.0 mΩ; the L1415 at C3672030 is the 4-cell part and wrong).
-     Read from the datasheet drawing (rev. 08/22/23, page 4, static.chipdip.ru/lib/556/DOC043556381.pdf): terminals 1 and 3 = fuse ends,
-     2 = heater (to the fuse mid-point). Body 4.0 × 3.0 × 0.9; terminal 2 on a short edge, 3 and 1 on the long edges.
-     Land pattern: A1 1.20, A2 1.55, A3 2.40, B1 1.20, B2 1.60, B3 1.55, B4 0.90, B5 1.55 → pad 2 1.20 × 1.60 at (−1.97, 0);
-     pad 3 2.40 × 1.55 at (0.18, +1.225); pad 1 2.40 × 1.55 at (0.18, −1.225), origin at the body centre.
-     LCSC number of the L0815: not looked up yet — confirm in JLCPCB's library or leave blank.
-   - Screw-free fixing at the pack end: not designed.
+1. **ST-501 power section** as planned above, then its 2 open connections, both checks clean, 3D render, fab, fit check, viewer.
+2. **ST-602**: apply Bruno's answers to Q38–Q40 in `hardware/cad` (printed parts; ask first if anything else must change), update the
+   envelope in `bought.py`, rerun `stcad.fit_boards`; price it in `costs.py`; correct the ST-602 / 603 / 604 lines.
 3. **Sheet** https://claude.ai/artifact/9T9Gpvm2vWPRYqJtPChJa8: copy the changed lines from `hardware/bom/master-parts-list.csv`
-   (ST-501, 509, 512, 513, 517, 518, 519, 520, 530, and ST-602 when priced). Not done.
+   (ST-501, 509, 512, 513, 517, 518, 519, 520, 530, ST-602 to 604). Not done.
 4. Block and power-tree diagrams and board renders into the Docs doc https://claude.ai/artifact/9Y2pyZBkJu5i3eWqNy6xAx and `docs/04-electronics.md`.
    Not done. The Docs doc still has the text of 22 Nov 16:30; `docs/04-electronics.md` and the Project copy `claude/05-electronics.md` are current.
-5. Workflow: changed on 22 Nov (no Freerouting, library tables copied, routes laid on the board only when `regenerate` = yes, fab files
-   only for a board whose checks are clean, list of open connections in the download, run fails if a check has errors). **Not yet run on
-   GitHub.** With the mainboard open it will end red at the last step: that is correct until ST-501 is finished.
+5. Workflow (`.github/workflows/phase4-electronics.yml`): now also the battery board and the power-path width step. **Not yet run on GitHub**
+   (pull request 7 must be merged first, then Actions → Phase 4 electronics build → Run workflow → branch `phase-4-electronics`). It ends
+   red while the mainboard's checks fail: that is correct.
 6. Final check of every value against its source; mark the pull request ready; then `claude/phase-5-prompt.md`.
-7. Q28, Q31–Q35 await Bruno; carry on with the recommended options.
+7. Open questions: Q28, Q31–Q35 (older), Q38–Q41 (23 Nov). Carry on with the recommended options, marked "pending approval".
 
-## Tool chain (as used on 22 Nov)
+## Tool chain (as used on 22 and 23 Nov)
 KiCad 9.0.8 from Ubuntu 26.04 packages in a chroot (`debootstrap resolute`, then `apt install kicad kicad-footprints kicad-symbols kicad-packages3d
 default-jre librsvg2-bin poppler-utils python3-pil`), global library tables copied from the template. Router: Python 3 with numpy, scipy, matplotlib, numba
 (host Python, outside the chroot; the chroot is entered only for `layout.py`, `check.py`, `fab.py`, `preview.py`). The chroot takes 4 minutes to build.
@@ -116,4 +158,5 @@ default-jre librsvg2-bin poppler-utils python3-pil`), global library tables copi
 `tools/build.py <board>` schematic + ERC · `tools/layout.py <board> [--no-route | --dump]` · `tools/grouter.py <board> [--plot]` ·
 `tools/closer.py <board>` · `tools/openlist.py <board>` · `tools/check.py <board>` ·
 `tools/fab.py <board> [--bom-only]` · `tools/docgen.py` · `tools/costs.py` · `tools/compose_doc.py` (reads `doc/status.json`) · `tools/viewer.py` ·
-`tools/preview.py <board>` · `harness/harness.py`.
+`tools/preview.py <board>` · `tools/dumpcu.py <board>` · `tools/pathwidth.py <board>` · `harness/harness.py`.
+`kc "<command>"` in these notes means: run the command inside the KiCad chroot, in the same folder.

diff --git a/docs/02-decisions-log.md b/docs/02-decisions-log.md
@@ -117,3 +117,9 @@ The Phase 4 design carries on with the recommended option for each of these. Not
 | Q33 | Shutter socket | Panel-mount 2.5 mm jack in the bezel, through a 9 mm cut-out in the mainboard, wired to plug J12 |
 | Q34 | Status light | Three single-colour 0603 LEDs behind the light pipe instead of one RGB package |
 | Q35 | Battery lead | Soldered to two pads on the mainboard, with an in-line XT30 |
+| Q38 | Battery board fixing in the pack (changes printed parts ST-605 and ST-612) | A rib 7 mm wide with a 1.7 mm groove on the floor of the lower shell and one under the roof of the upper shell; the board's bottom and top edges sit in them. The board ST-602 keeps those edges free. Not changed in the CAD yet |
+| Q39 | Pack light pipe and button (changes printed part ST-611) | The pipe ends 2.0 mm before the board, with a flat boss over the button, and slides 0.3 mm in its window to press it; a thin TPU lip on its flange keeps the window closed. Not changed in the CAD yet |
+| Q40 | Wire passages in the pack (changes printed part ST-606) | A notch 6 × 3 mm at mid-height on the left and right edge of both cell holders: PACK+ on one side; PACK−, the three bus wires, the middle tap and the thermistor leads on the other. Not changed in the CAD yet |
+| Q41 | Inner copper of the mainboard | Order 1 oz inner layers instead of JLCPCB's standard 0.5 oz: the battery rail on inner layer 3 then has about 6 mΩ instead of 12 mΩ (0.2 W instead of 0.45 W at 6 A). A small surcharge on the bare boards |
+
+Also done since the last approval and reported here because they change the layout, not the circuit: small parts round the processor, the PD controllers and the drivers were moved to widen the free bands; slow-signal resistors and capacitors carry a via in their pad; the drivers' charge-pump and reference nets are routed with the slow signals.
